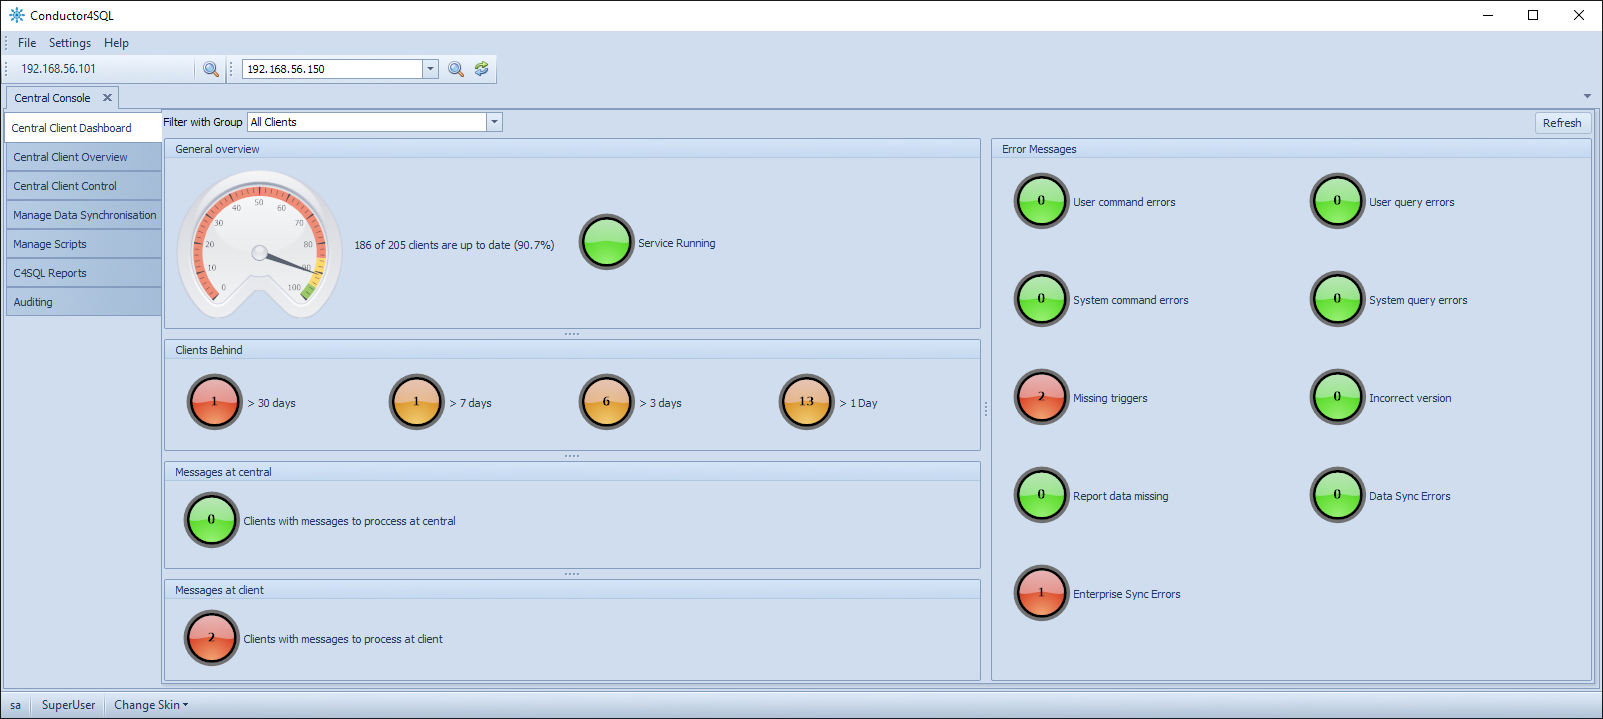
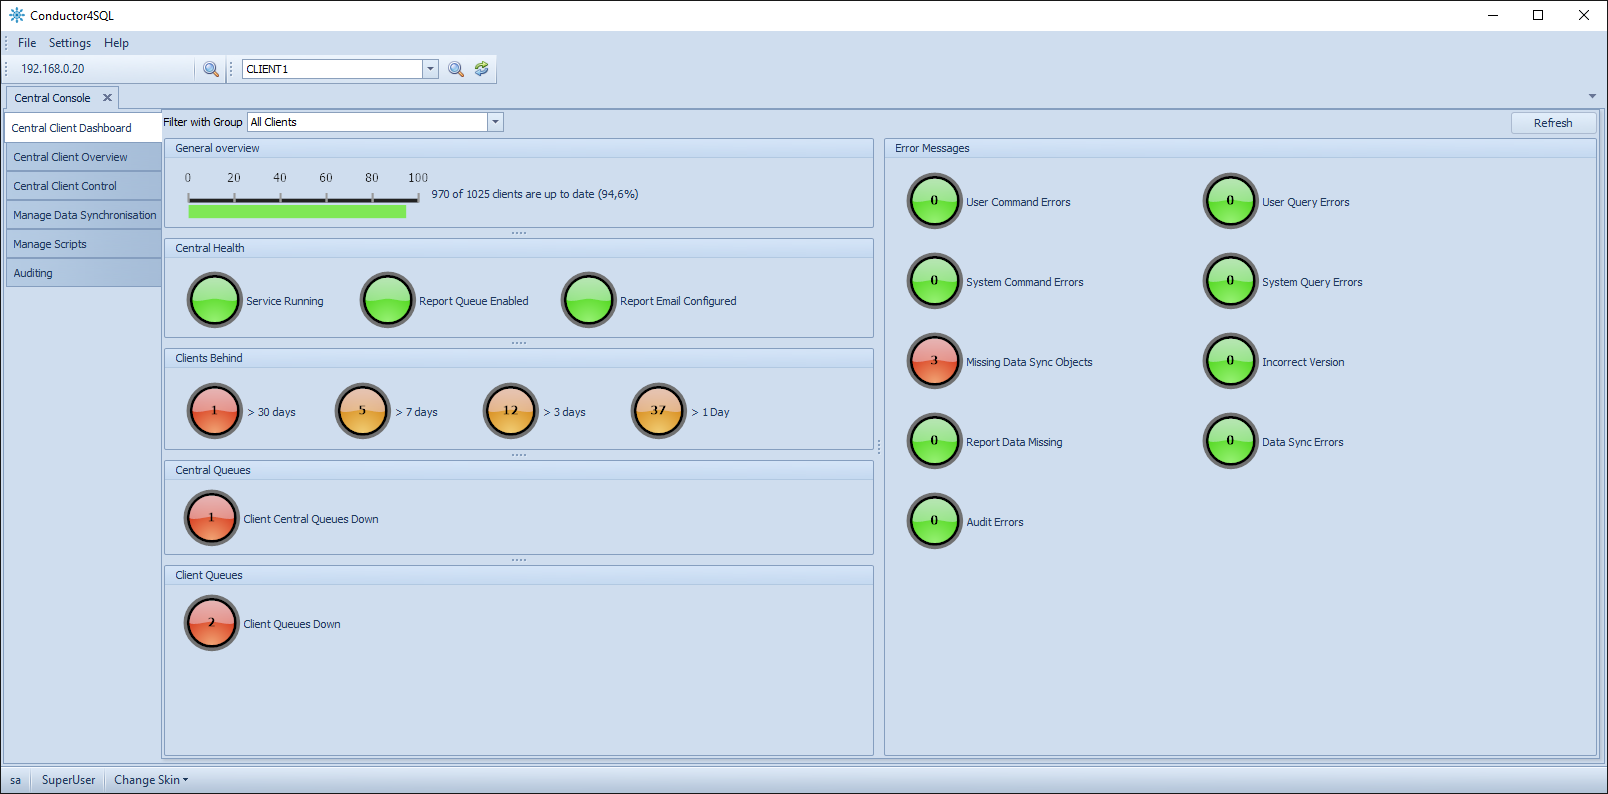
Deployed 1140d7f with MkDocs version: 0.17.1

diff --git a/administration/configuration/index.html b/administration/configuration/index.html
@@ -214,6 +214,18 @@
             
     <li class="toctree-l3"><a href="#configuration-administration-overview">Configuration Administration Overview</a></li>
     
+        <ul>
+        
+            <li><a class="toctree-l4" href="#client-settings">Client Settings</a></li>
+        
+            <li><a class="toctree-l4" href="#installation-settings">Installation Settings</a></li>
+        
+            <li><a class="toctree-l4" href="#auditing-settings">Auditing Settings</a></li>
+        
+            <li><a class="toctree-l4" href="#data-sync-settings">Data Sync Settings</a></li>
+        
+        </ul>
+    
 
     </ul>
                 </li>
@@ -319,23 +331,33 @@
 <p>To adjust Conductor4SQL settings select the <strong>C4SQL Configuration</strong> tab from the <a href="../introduction">Central Administration</a> screen.</p>
 <p>Click on the <strong>Edit Configuration</strong> button to adjust any settings you wish to edit</p>
 <p><img alt="" src="../../img/administration/configuration/configuration-editor.png" /></p>
+<h2 id="client-settings">Client Settings</h2>
 <ul>
-<li><strong>Reporting Services Url</strong> - the url where the Conductor4SQL Reporting services reports are deployed</li>
 <li><strong>Maximum Group Size</strong> - the maximum number of clients allowed in a single client group <em>(default 2000)</em>.</li>
 <li><strong>Send To All Enabled</strong> - Enable or disable the <strong>All</strong> option in central client control <em>(default true)</em>.</li>
-<li><strong>Event Notification Enabled On Client Install</strong> - Enable event auditing when client is installed <em>(default true)</em>.</li>
+<li><strong>Number of Client Upgrader Threads</strong> - The number of clients to upgrade at once when upgrading clients to a newer version of Conductor4SQL <em>(default 5)</em>.</li>
+<li><strong>Number of Checker Service Threads</strong> - The number of clients that are behind to run the <strong>Client behind diagnostic tool</strong> <em>(default 5)</em>.</li>
+<li><strong>Number of Hours Behind Needed Before Checking Client</strong> - The amount of hours that the client hasn't communicated for before the <strong>Client behind diagnostic tool</strong> will run <em>(default 60)</em>.</li>
+</ul>
+<h2 id="installation-settings">Installation Settings</h2>
+<ul>
 <li><strong>Number of Bulk Pre-Checker Threads</strong> - The number of clients to test at once when running the Bulk Client Pre-Checker <em>(default 5)</em>.</li>
 <li><strong>Number of Bulk Installer Threads</strong> - The number of clients to install at once when running the Bulk Client Installer <em>(default 5)</em>.</li>
+<li><strong>PreChecker Check For Existing Install</strong> - Check for if the SyncWorx Database and SyncWorxAdmin login user exists at the client <em>(default true)</em></li>
+<li><strong>PreChecker Ping Check</strong> - Run a ping check as part of the PreChecker.</li>
 <li><strong>Number of Bulk Uninstaller Threads</strong> - The number of clients to uninstall at once when running the Bulk Client Uninstaller <em>(default 5)</em>.</li>
-<li><strong>Number of Hours Behind Needed Before Checking Client</strong> - The amount of hours that the client hasn't communicated for before the <strong>Client behind diagnostic tool</strong> will run <em>(default 60)</em>.</li>
-<li><strong>Number of Checker Service Threads</strong> - The number of clients that are behind to run the <strong>Client behind diagnostic tool</strong> <em>(default 5)</em>.</li>
-<li><strong>Number of Client Upgrade Threads</strong> - The number of clients to upgrade at once when upgrading clients to a newer version of Conductor4SQL <em>(default 5)</em>.</li>
-<li><strong>Message Audit Retention In Days</strong> - Every message that Conductor4SQL central receives is stored for the number of days defined before they are archived. This data is kept for debugging purposes <em>(default 7)</em> </li>
-<li><strong>Message Audit Archive Retention In Days</strong> - Every message that Conductor4SQL archives is further stored for the defined number of days before they are deleted. This data is also kept for debugging purposes <em>(default 60)</em> </li>
-<li><strong>Client Event Log Retention In Days</strong> - The number of days that the Client Event Audit data is kept for <em>(default 7)</em> </li>
-<li><strong>Message Audit Archive Retention In Days</strong> - Every message that Conductor4SQL archives is further stored for the defined number of days before they are deleted. This data is also kept for debugging purposes <em>(default 7)</em> </li>
+<li><strong>Event Notification Enabled On Client Install</strong> - Enable event auditing when client is installed <em>(default true)</em>.</li>
+</ul>
+<h2 id="auditing-settings">Auditing Settings</h2>
+<ul>
+<li><strong>Message Audit Retention In Days</strong> - Every message that Conductor4SQL central receives is stored for the number of days defined before they are deleted. This data is kept for debugging purposes <em>(default 7)</em> </li>
 <li><strong>Message Audit Cleanup Time Limit In Minutes</strong> - Set the length of time (in minutes) that the daily job clears old message audit and data sync audit messages <em>(default 60)</em></li>
+<li><strong>Client Event Log Retention In Days</strong> - The number of days that the Client Event Audit data is kept for <em>(default 7)</em> </li>
+</ul>
+<h2 id="data-sync-settings">Data Sync Settings</h2>
+<ul>
 <li><strong>Enterprise Sync Initial Sync Skip</strong> - Used for when you are using Enterprise Sync and restoring database backups at central rather than performing initial sync <em>(default false)</em> </li>
+<li><strong>Checksum Time-to-live (Minutes)</strong> - the length of time before a checksum message expires </li>
 </ul>
 <p>Click on the <strong>Save Configuration</strong> button when you have completed tweaking the Conductor4SQL settings.</p>
               

diff --git a/central-console/central-client-dashboard/index.html b/central-console/central-client-dashboard/index.html
@@ -353,11 +353,21 @@ The overall state of your environment should preferably indicate 100% (all green
 <p><img alt="" src="../../img/central-console/central-client-dashboard/metric-general-overview-client-communication.png" /></p>
 <p><strong>Description</strong></p>
 <p>This indicator tells you the number of clients installed compared to the number of clients that are currently communicating. You want to try and keep this number to as close to 100% as possible.</p>
-<h3 id="general-overview-service-running">General Overview - Service Running</h3>
+<h3 id="central-health-service-running">Central Health - Service Running</h3>
 <p><strong>Metric</strong></p>
 <p><img alt="" src="../../img/central-console/central-client-dashboard/metric-service-running.png" /></p>
 <p><strong>Description</strong></p>
-<p>This metric is important because it tells us if the Conductor4SQL service is running. Its important that this service is always running as it is responsible for sending out scheduled User Commands and Queries as well as running the <em>diagnostic tool</em> for determining why clients are behind.</p>
+<p>This metric is important because it tells us if the <strong>Conductor4SQL Service</strong> is running. Its important that this service is always running as it is responsible for sending out scheduled User Commands and Queries as well as running the <em>diagnostic tool</em> for determining why clients are behind.</p>
+<h3 id="central-health-report-queue-enabled">Central Health - Report Queue Enabled</h3>
+<p><strong>Metric</strong></p>
+<p><img alt="" src="../../img/central-console/central-client-dashboard/metric-report-queue-enabled-running.png" /></p>
+<p><strong>Description</strong></p>
+<p>It is important that the report queue is enabled at all times otherwise no report data will be populated for any of the clients.</p>
+<h3 id="central-health-report-email-configured">Central Health - Report Email Configured</h3>
+<p><strong>Metric</strong></p>
+<p><img alt="" src="../../img/central-console/central-client-dashboard/metric-report-email-configured.png" /></p>
+<p><strong>Description</strong></p>
+<p>The report emails go out daily and hourly will not be sent out unless the report email has been configured. </p>
 <h3 id="clients-behind">Clients Behind</h3>
 <p><strong>Metric</strong></p>
 <p><img alt="" src="../../img/central-console/central-client-dashboard/metric-clients-behind.png" /></p>

diff --git a/prerequisites/central-prerequisites/index.html b/prerequisites/central-prerequisites/index.html
@@ -68,7 +68,10 @@
     <li class="toctree-l3"><a href="#central-server-pre-requisites-overview">Central Server Pre-Requisites Overview</a></li>
     
 
-    <li class="toctree-l3"><a href="#system-requirements">System Requirements</a></li>
+    <li class="toctree-l3"><a href="#minimum-hardware-requirements">Minimum Hardware Requirements</a></li>
+    
+
+    <li class="toctree-l3"><a href="#minimum-system-requirements">Minimum System Requirements</a></li>
     
 
     <li class="toctree-l3"><a href="#mandatory-tcp-ports">Mandatory TCP Ports</a></li>
@@ -332,18 +335,25 @@
 <p class="admonition-title">Tip</p>
 <p>It is strongly recommended that the SQL Server installed for the Central Server is a clean instance.</p>
 </div>
-<h1 id="system-requirements">System Requirements</h1>
+<h1 id="minimum-hardware-requirements">Minimum Hardware Requirements</h1>
+<ul>
+<li>4 CPUs</li>
+<li>8GB RAM</li>
+</ul>
+<h1 id="minimum-system-requirements">Minimum System Requirements</h1>
 <ul>
 <li>The minimum operating systems supported is: Windows server 2012 64 bit.</li>
 <li>SQL Server 2012 Standard Edition or higher.</li>
+<li>Microsoft .NET Framework 3.5</li>
 <li>Microsoft .NET Framework 4.5 or higher is required.</li>
 <li>The central server must have network service connectivity to communicate with all potential clients.</li>
 <li>The user performing the installation must have full System Administrator rights to both Windows and SQL Server</li>
+<li>Separate disk drives for Operating System, SQL Data, SQL Log and SQL Tempdb <em>(this setup is not required but highly recommended for any large SQL Server environment)</em></li>
 </ul>
 <h1 id="mandatory-tcp-ports">Mandatory TCP Ports</h1>
 <p>The following ports are mandatory for the successful installation and operation of Conductor4SQL. Use the <em>Windows Firewall Advanced Security tool</em> and activate the inbound rules for the following ports:</p>
 <ul>
-<li>C4SQL port 4321 See troubleshooting information for this item</li>
+<li>Conductor4SQL port 4321 See troubleshooting information for this item</li>
 <li>SQL Server Administration – TCP port 1433</li>
 </ul>
 <h1 id="sql-authentication">SQL authentication</h1>

diff --git a/installation/central-server-installation/index.html b/installation/central-server-installation/index.html
@@ -333,14 +333,14 @@
             <div class="section">
               
                 <h1 id="installing-the-conductor4sql-user-interface">Installing the Conductor4SQL User Interface</h1>
-<p>You will receive a <strong>Conductor4SQL.Installer.3.4.11.2.exe</strong> file from EnterpriseWorx.</p>
+<p>You will receive a <strong>Conductor4SQL.Installer.3.6.1.0.exe</strong> file from EnterpriseWorx.</p>
 <div class="admonition note">
 <p class="admonition-title">Note</p>
-<p>the 3.4.11.2 is the current version of the application, your file name may differ.</p>
+<p>the 3.6.1.0 is the current version of the application, your file name may differ.</p>
 </div>
 <p>Before you start the installation, check your hardware and software against the 
 <a href="../../prerequisites/central-prerequisites">Central Server Pre-Requisites</a></p>
-<p>Double click on the <strong>Conductor4SQL.Installer.3.4.11.2.exe</strong> executable to begin the installation</p>
+<p>Double click on the <strong>Conductor4SQL.Installer.3.6.1.0.exe</strong> executable to begin the installation</p>
 <p>Read and accept the license agreement and click the <strong>Next</strong> button through the remainder of the screens </p>
 <p><img alt="" src="../../img/installation/ui-installation-license-agreement.png" /></p>
 <p>Finally you should have the a shortcut to the "Conductor4SQL" application installed on your desktop/server, right click this shortcut and select the <strong>Run as administrator</strong> option.</p>

diff --git a/installation/client-server-installation/index.html b/installation/client-server-installation/index.html
@@ -349,7 +349,7 @@
 <li><strong>Port</strong> - The TCP port in which central will connect to the client.</li>
 <li><strong>Group</strong> - the client group in which to add the Client Server to (these are defined in the Administration section).</li>
 <li>
-<p><strong>Business</strong> - Custom fields for the client that are defined in the Administration Section.</p>
+<p><strong>Business Attributes</strong> - Custom fields for the client that are defined in the Administration Section.</p>
 </li>
 <li>
 <p>Finally select the <strong>Text Connection</strong> button </p>

diff --git a/index.html b/index.html
@@ -428,5 +428,5 @@ You can download an offline copy of this document by right clicking the followin
 
 <!--
 MkDocs version : 0.17.1
-Build Date UTC : 2017-11-14 12:39:02
+Build Date UTC : 2017-11-16 12:46:17
 -->
